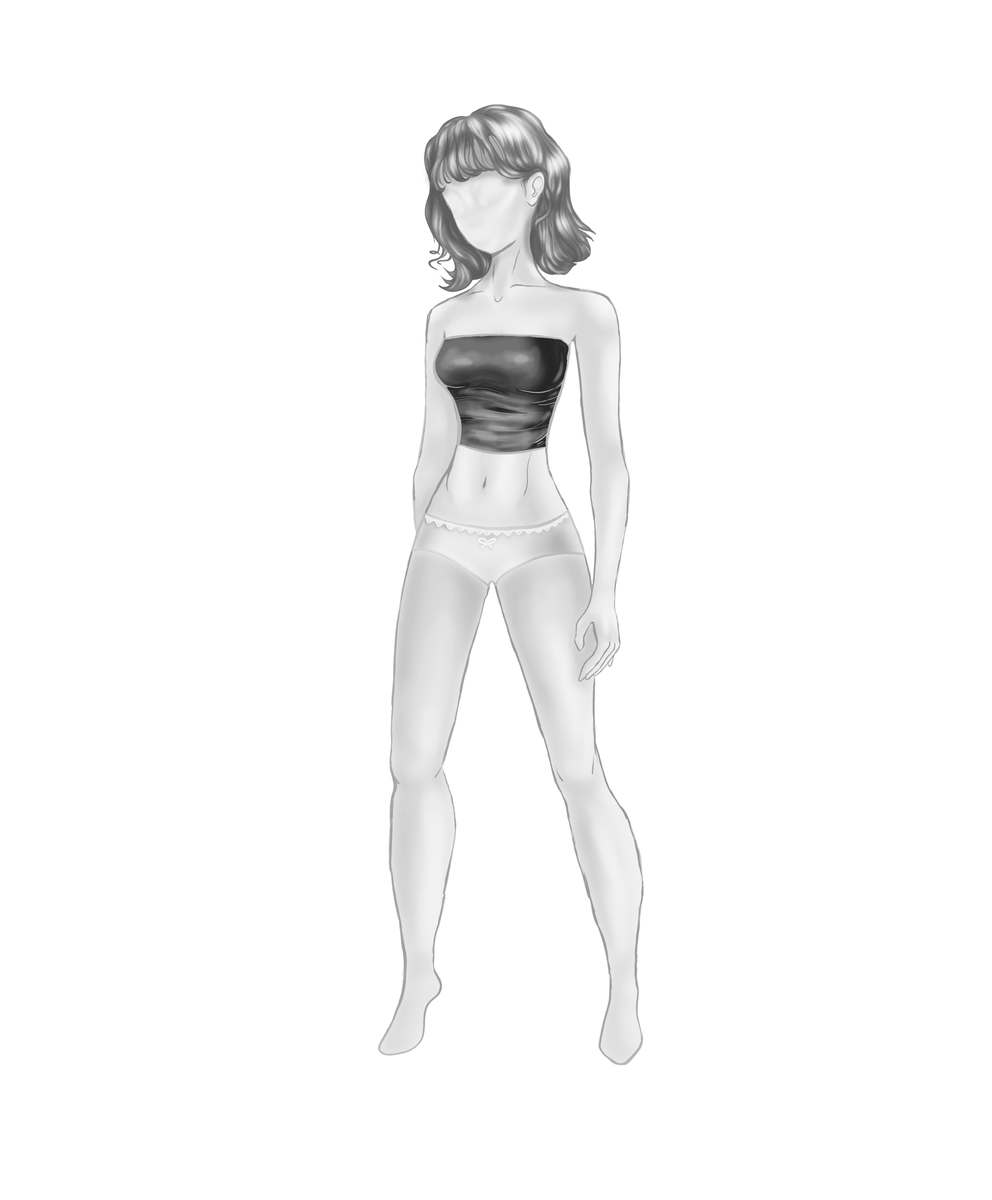
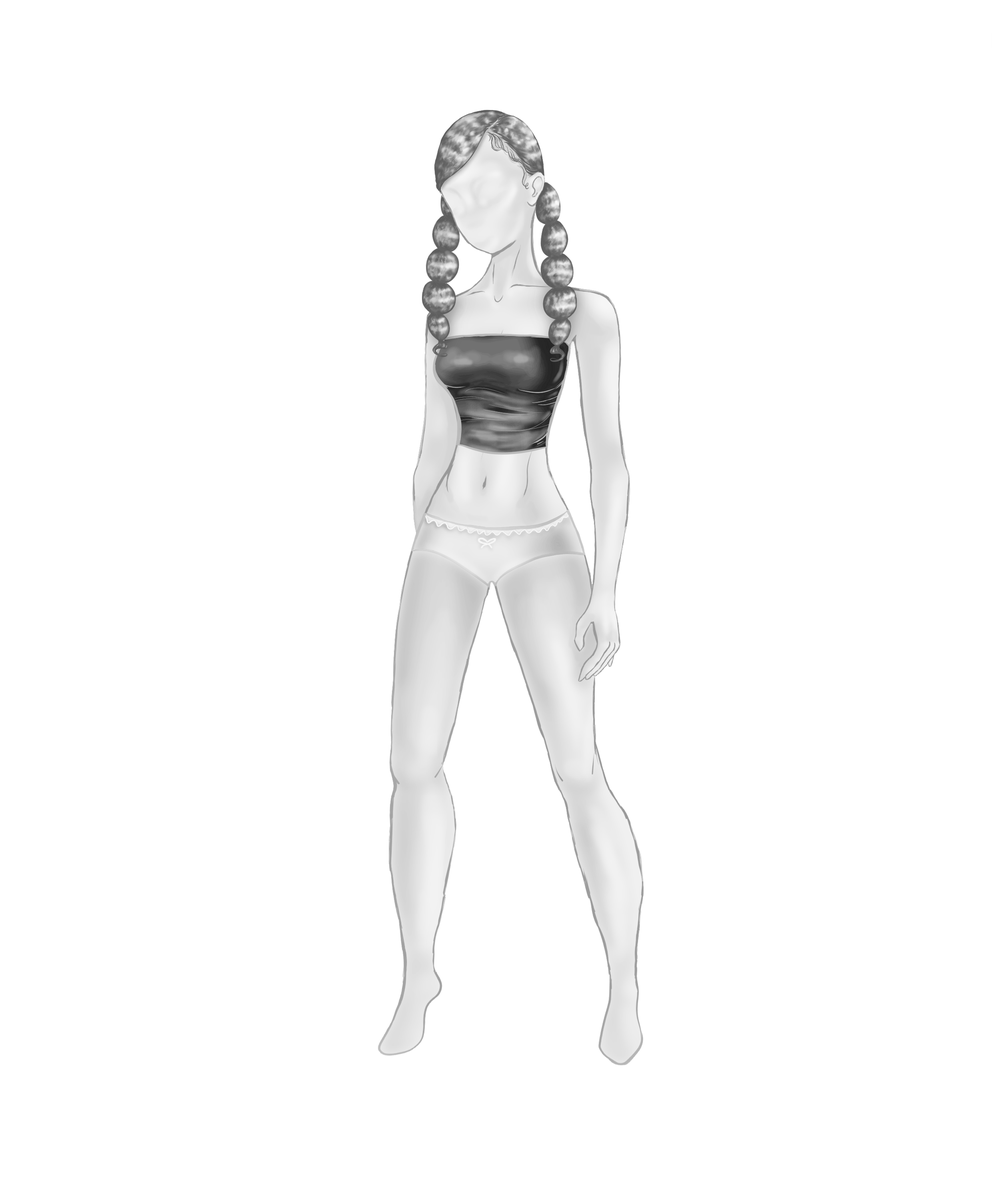
Adding new hairstyles

Changed region(s): [[0.4036, 0.062, 0.621, 0.31]]

diff --git a/dollidemo.html b/dollidemo.html
@@ -479,43 +479,8 @@
 
                 <!--EYES-->
                 <div class="eyes">
-                <div class="eyeshape" id="shape-doe">
-                    <img loading="lazy" src="DressupGame_Assets/Beauty/Eyes/darkeyes/doe_eyes_dark_brown.png" data-color="brown" style="display:block" class="darkeyes"/>
-                    <img loading="lazy" src="DressupGame_Assets/Beauty/Eyes/darkeyes/doe_eyes_dark_blue.png" data-color="blue" class="darkeyes"/>
-                    <img loading="lazy" src="DressupGame_Assets/Beauty/Eyes/darkeyes/doe_eyes_dark_purple.png" data-color="purple" class="darkeyes"/>
-                    <img loading="lazy" src="DressupGame_Assets/Beauty/Eyes/darkeyes/doe_eyes_dark_green.png"  data-color="green" class="darkeyes"/>
-                    <img loading="lazy" src="DressupGame_Assets/Beauty/Eyes/lighteyes/doe_eyes_light_blue.png"  data-color="blue" class="lighteyes"/>
-                    <img loading="lazy" src="DressupGame_Assets/Beauty/Eyes/lighteyes/doe_eyes_light_purple.png"  data-color="purple" class="lighteyes"/>
-                    <img loading="lazy" src="DressupGame_Assets/Beauty/Eyes/lighteyes/doe_eyes_light_green.png"  data-color="green" class="lighteyes"/>
-                    <img loading="lazy" src="DressupGame_Assets/Beauty/Eyes/lighteyes/doe_eyes_light_brown.png" data-color="brown" class="lighteyes"/>
-                    
-                </div>
 
-               
-
-                <div class="eyeshape" id="shape-sultry">
-                    <img loading="lazy" src="DressupGame_Assets/Beauty/Eyes/darkeyes/sultry_eyes_dark_blue.png" data-color="blue" class="darkeyes"/>
-                     <img loading="lazy" src="DressupGame_Assets/Beauty/Eyes/darkeyes/sultry_eyes_dark_purple.png" data-color="purple" class="darkeyes"/>
-                    <img loading="lazy" src="DressupGame_Assets/Beauty/Eyes/darkeyes/sultry_eyes_dark_green.png"  data-color="green" class="darkeyes"/>
-                    <img loading="lazy" src="DressupGame_Assets/Beauty/Eyes/darkeyes/sultry_eyes_dark_brown.png"  data-color="brown" class="darkeyes"/>
-                    <img loading="lazy" src="DressupGame_Assets/Beauty/Eyes/lighteyes/sultry_eyes_light_blue.png"  data-color="blue" class="lighteyes"/>
-                    <img loading="lazy" src="DressupGame_Assets/Beauty/Eyes/lighteyes/sultry_eyes_light_purple.png"  data-color="purple" class="lighteyes"/>
-                    <img loading="lazy" src="DressupGame_Assets/Beauty/Eyes/lighteyes/sultry_eyes_light_green.png"  data-color="green" class="lighteyes"/>
-                    <img loading="lazy" src="DressupGame_Assets/Beauty/Eyes/lighteyes/sultry_eyes_light_brown.png"  data-color="brown" class="lighteyes"/>
-                </div>
-                    
-
-
-               <div class="eyeshape" id="shape-cat">
-                    <img loading="lazy" src="DressupGame_Assets/Beauty/Eyes/darkeyes/cat_eyes_dark_blue.png" data-color="blue" class="darkeyes"/>
-                    <img loading="lazy" src="DressupGame_Assets/Beauty/Eyes/darkeyes/cat_eyes_dark_purple.png" data-color="purple" class="darkeyes"/>
-                    <img loading="lazy" src="DressupGame_Assets/Beauty/Eyes/darkeyes/cat_eyes_dark_green.png"  data-color="green" class="darkeyes"/>
-                    <img loading="lazy" src="DressupGame_Assets/Beauty/Eyes/darkeyes/cat_eyes_dark_brown.png"  data-color="brown" class="darkeyes"/>
-                    <img loading="lazy" src="DressupGame_Assets/Beauty/Eyes/lighteyes/cat_eyes_light_blue.png"  data-color="blue" class="lighteyes"/>
-                    <img loading="lazy" src="DressupGame_Assets/Beauty/Eyes/lighteyes/cat_eyes_light_purple.png"  data-color="purple" class="lighteyes"/>
-                    <img loading="lazy" src="DressupGame_Assets/Beauty/Eyes/lighteyes/cat_eyes_light_green.png"  data-color="green" class="lighteyes"/>
-                    <img loading="lazy" src="DressupGame_Assets/Beauty/Eyes/lighteyes/cat_eyes_light_brown.png"  data-color="brown" class="lighteyes"/>
-                </div>
+     
 
                 <div class="eyeshape" id="shape-cool">
                     <img loading="lazy" src="DressupGame_Assets/Beauty/Eyes/darkeyes/cool_eyes_dark_blue.png" data-color="blue" class="darkeyes"/>
@@ -572,28 +537,28 @@
                     <img loading="lazy" src="DressupGame_Assets/Beauty/Eyes/lighteyes/brat_eyes_light_brown.png"  data-color="brown" class="lighteyes"/>
                 </div>
 
-                <!--<div class="eyeshape" id="shape-innocent">
-                    <img loading="lazy" src="DressupGame_Assets/Beauty/Eyes/darkeyes/innocent_eyes_dark_blue.png" data-color="blue" class="darkeyes"/>
-                    <img loading="lazy" src="DressupGame_Assets/Beauty/Eyes/darkeyes/innocent_eyes_dark_purple.png" data-color="purple" class="darkeyes"/>
-                    <img loading="lazy" src="DressupGame_Assets/Beauty/Eyes/darkeyes/innocent_eyes_dark_green.png"  data-color="green" class="darkeyes"/>
-                    <img loading="lazy" src="DressupGame_Assets/Beauty/Eyes/darkeyes/innocent_eyes_dark_brown.png"  data-color="brown" class="darkeyes"/>
-                    <img loading="lazy" src="DressupGame_Assets/Beauty/Eyes/lighteyes/innocent_eyes_light_blue.png"  data-color="blue" class="lighteyes"/>
-                    <img loading="lazy" src="DressupGame_Assets/Beauty/Eyes/lighteyes/innocent_eyes_light_purple.png"  data-color="purple" class="lighteyes"/>
-                    <img loading="lazy" src="DressupGame_Assets/Beauty/Eyes/lighteyes/innocent_eyes_light_green.png"  data-color="green" class="lighteyes"/>
-                    <img loading="lazy" src="DressupGame_Assets/Beauty/Eyes/lighteyes/innocent_eyes_light_brown.png"  data-color="brown" class="lighteyes"/>
+                <div class="eyeshape" id="shape-happy">
+                    <img loading="lazy" src="DressupGame_Assets/Beauty/Eyes/darkeyes/happy_eyes_dark_blue.png" data-color="blue" class="darkeyes"/>
+                    <img loading="lazy" src="DressupGame_Assets/Beauty/Eyes/darkeyes/happy_eyes_dark_purple.png" data-color="purple" class="darkeyes"/>
+                    <img loading="lazy" src="DressupGame_Assets/Beauty/Eyes/darkeyes/happy_eyes_dark_green.png"  data-color="green" class="darkeyes"/>
+                    <img loading="lazy" src="DressupGame_Assets/Beauty/Eyes/darkeyes/happy_eyes_dark_brown.png"  data-color="brown" class="darkeyes"/>
+                    <img loading="lazy" src="DressupGame_Assets/Beauty/Eyes/lighteyes/happy_eyes_light_blue.png"  data-color="blue" class="lighteyes"/>
+                    <img loading="lazy" src="DressupGame_Assets/Beauty/Eyes/lighteyes/happy_eyes_light_purple.png"  data-color="purple" class="lighteyes"/>
+                    <img loading="lazy" src="DressupGame_Assets/Beauty/Eyes/lighteyes/happy_eyes_light_green.png"  data-color="green" class="lighteyes"/>
+                    <img loading="lazy" src="DressupGame_Assets/Beauty/Eyes/lighteyes/happy_eyes_light_brown.png"  data-color="brown" class="lighteyes"/>
                 </div> 
 
-                <div class="eyeshape" id="shape-almond">
-                    <img loading="lazy" src="DressupGame_Assets/Beauty/Eyes/darkeyes/almond_eyes_dark_blue.png" data-color="blue" class="darkeyes"/>
-                    <img loading="lazy" src="DressupGame_Assets/Beauty/Eyes/darkeyes/almond_eyes_dark_purple.png" data-color="purple" class="darkeyes"/>
-                    <img loading="lazy" src="DressupGame_Assets/Beauty/Eyes/darkeyes/almond_eyes_dark_green.png"  data-color="green" class="darkeyes"/>
-                    <img loading="lazy" src="DressupGame_Assets/Beauty/Eyes/darkeyes/almond_eyes_dark_brown.png"  data-color="brown" class="darkeyes"/>
-                    <img loading="lazy" src="DressupGame_Assets/Beauty/Eyes/lighteyes/almond_eyes_light_blue.png"  data-color="blue" class="lighteyes"/>
-                    <img loading="lazy" src="DressupGame_Assets/Beauty/Eyes/lighteyes/almond_eyes_light_purple.png"  data-color="purple" class="lighteyes"/>
-                    <img loading="lazy" src="DressupGame_Assets/Beauty/Eyes/lighteyes/almond_eyes_light_green.png"  data-color="green" class="lighteyes"/>
-                    <img loading="lazy" src="DressupGame_Assets/Beauty/Eyes/lighteyes/almond_eyes_light_brown.png"  data-color="brown" class="lighteyes"/>
+                <div class="eyeshape" id="shape-nice">
+                    <img loading="lazy" src="DressupGame_Assets/Beauty/Eyes/darkeyes/nice_eyes_dark_blue.png" data-color="blue" class="darkeyes"/>
+                    <img loading="lazy" src="DressupGame_Assets/Beauty/Eyes/darkeyes/nice_eyes_dark_purple.png" data-color="purple" class="darkeyes"/>
+                    <img loading="lazy" src="DressupGame_Assets/Beauty/Eyes/darkeyes/nice_eyes_dark_green.png"  data-color="green" class="darkeyes"/>
+                    <img loading="lazy" src="DressupGame_Assets/Beauty/Eyes/darkeyes/nice_eyes_dark_brown.png"  data-color="brown" class="darkeyes"/>
+                    <img loading="lazy" src="DressupGame_Assets/Beauty/Eyes/lighteyes/nice_eyes_light_blue.png"  data-color="blue" class="lighteyes"/>
+                    <img loading="lazy" src="DressupGame_Assets/Beauty/Eyes/lighteyes/nice_eyes_light_purple.png"  data-color="purple" class="lighteyes"/>
+                    <img loading="lazy" src="DressupGame_Assets/Beauty/Eyes/lighteyes/nice_eyes_light_green.png"  data-color="green" class="lighteyes"/>
+                    <img loading="lazy" src="DressupGame_Assets/Beauty/Eyes/lighteyes/nice_eyes_light_brown.png"  data-color="brown" class="lighteyes"/>
                 </div>
-                -->
+                
 
                 </div>
 
@@ -726,6 +691,12 @@
                     <img loading="lazy" src="DressupGame_Assets/Beauty/Makeup/Blush/blush3_medium.png" data-color="medium" class="blushes"/>
                     <img loading="lazy" src="DressupGame_Assets/Beauty/Makeup/Blush/blush3_light.png" data-color="light"  class="blushes"/>
                     <img loading="lazy" src="DressupGame_Assets/Beauty/Makeup/Blush/blush3_rouge.png" data-color="rouge"  class="blushes"/>
+                    </div>
+                    <div class="blushshape" id="highlight">
+                    <img loading="lazy" src="DressupGame_Assets/Beauty/Makeup/Blush/highlight_dark.png" data-color="dark" class="blushes"/>
+                    <img loading="lazy" src="DressupGame_Assets/Beauty/Makeup/Blush/highlight_med.png" data-color="medium" class="blushes"/>
+                    <img loading="lazy" src="DressupGame_Assets/Beauty/Makeup/Blush/highlight_light.png" data-color="light"  class="blushes"/>
+                    <img loading="lazy" src="DressupGame_Assets/Beauty/Makeup/Blush/highlight_rouge.png" data-color="rouge"  class="blushes"/>
                     </div>
                 </div>
 
@@ -882,6 +853,57 @@
                     <img src="DressupGame_Assets/Hairs/Hairstyles/Hairstyle6/hairstyle6_orange.png" data-color="orange" class="hairstyles"/>
                     </div>
 
+                    <div class="hairshape" id="hairstyle10" >
+                    <img src="DressupGame_Assets/Hairs/Hairstyles/Hairstyle10/hairstyle10_black.png" data-color="black" class="hairstyles"/>
+                    <img src="DressupGame_Assets/Hairs/Hairstyles/Hairstyle10/hairstyle10_brown.png" data-color="brown" class="hairstyles"/>
+                    <img src="DressupGame_Assets/Hairs/Hairstyles/Hairstyle10/hairstyle10_blonde.png" data-color="blonde" class="hairstyles"/>
+                    <img src="DressupGame_Assets/Hairs/Hairstyles/Hairstyle10/hairstyle10_orange.png" data-color="orange" class="hairstyles"/>
+                    </div>
+
+                    <div class="hairshape" id="hairstyle11" >
+                    <img src="DressupGame_Assets/Hairs/Hairstyles/Hairstyle11/hairstyle11_black.png" data-color="black" class="hairstyles"/>
+                    <img src="DressupGame_Assets/Hairs/Hairstyles/Hairstyle11/hairstyle11_brown.png" data-color="brown" class="hairstyles"/>
+                    <img src="DressupGame_Assets/Hairs/Hairstyles/Hairstyle11/hairstyle11_blonde.png" data-color="blonde" class="hairstyles"/>
+                    <img src="DressupGame_Assets/Hairs/Hairstyles/Hairstyle11/hairstyle11_orange.png" data-color="orange" class="hairstyles"/>
+                    </div>
+
+                    <div class="hairshape" id="hairstyle12" >
+                    <img src="DressupGame_Assets/Hairs/Hairstyles/Hairstyle12/hairstyle12_black.png" data-color="black" class="hairstyles"/>
+                    <img src="DressupGame_Assets/Hairs/Hairstyles/Hairstyle12/hairstyle12_brown.png" data-color="brown" class="hairstyles"/>
+                    <img src="DressupGame_Assets/Hairs/Hairstyles/Hairstyle12/hairstyle12_blonde.png" data-color="blonde" class="hairstyles"/>
+                    <img src="DressupGame_Assets/Hairs/Hairstyles/Hairstyle12/hairstyle12_orange.png" data-color="orange" class="hairstyles"/>
+                    </div>
+
+                    <div class="hairshape" id="hairstyle13" >
+                    <img src="DressupGame_Assets/Hairs/Hairstyles/Hairstyle13/hairstyle13_black.png" data-color="black" class="hairstyles"/>
+                    <img src="DressupGame_Assets/Hairs/Hairstyles/Hairstyle13/hairstyle13_brown.png" data-color="brown" class="hairstyles"/>
+                    <img src="DressupGame_Assets/Hairs/Hairstyles/Hairstyle13/hairstyle13_blonde.png" data-color="blonde" class="hairstyles"/>
+                    <img src="DressupGame_Assets/Hairs/Hairstyles/Hairstyle13/hairstyle13_orange.png" data-color="orange" class="hairstyles"/>
+                    </div>
+
+                    
+                    <div class="hairshape" id="hairstyle14" >
+                    <img src="DressupGame_Assets/Hairs/Hairstyles/Hairstyle14/hairstyle14_black.png" data-color="black" class="hairstyles"/>
+                    <img src="DressupGame_Assets/Hairs/Hairstyles/Hairstyle14/hairstyle14_brown.png" data-color="brown" class="hairstyles"/>
+                    <img src="DressupGame_Assets/Hairs/Hairstyles/Hairstyle14/hairstyle14_blonde.png" data-color="blonde" class="hairstyles"/>
+                    <img src="DressupGame_Assets/Hairs/Hairstyles/Hairstyle14/hairstyle14_orange.png" data-color="orange" class="hairstyles"/>
+                    </div>
+
+    
+                    <div class="hairshape" id="hairstyle15" >
+                    <img src="DressupGame_Assets/Hairs/Hairstyles/Hairstyle15/hairstyle15_black.png" data-color="black" class="hairstyles"/>
+                    <img src="DressupGame_Assets/Hairs/Hairstyles/Hairstyle15/hairstyle15_brown.png" data-color="brown" class="hairstyles"/>
+                    <img src="DressupGame_Assets/Hairs/Hairstyles/Hairstyle15/hairstyle15_blonde.png" data-color="blonde" class="hairstyles"/>
+                    <img src="DressupGame_Assets/Hairs/Hairstyles/Hairstyle15/hairstyle15_orange.png" data-color="orange" class="hairstyles"/>
+                    </div>
+
+
+                    <div class="hairshape" id="hairstyle16" >
+                    <img src="DressupGame_Assets/Hairs/Hairstyles/Hairstyle16/hairstyle16_black.png" data-color="black" class="hairstyles"/>
+                    <img src="DressupGame_Assets/Hairs/Hairstyles/Hairstyle16/hairstyle16_brown.png" data-color="brown" class="hairstyles"/>
+                    <img src="DressupGame_Assets/Hairs/Hairstyles/Hairstyle16/hairstyle16_blonde.png" data-color="blonde" class="hairstyles"/>
+                    <img src="DressupGame_Assets/Hairs/Hairstyles/Hairstyle16/hairstyle16_orange.png" data-color="orange" class="hairstyles"/>
+                    </div>
                 </div>
           
                 <!--JEWELRY-->
@@ -1034,20 +1056,6 @@
                     <img loading="lazy" src="DressupGame_Assets/Clothes/Under/Tank2/tank2_black.png" data-color="black" class="tops"/>
                     </div>
 
-
-                   <div class="topstyle" id="beyonce">
-                    <img loading="lazy" src="DressupGame_Assets/Clothes/Tops/Beyonce/beyonce_pink.png" data-color="pink" class="tops"/>
-                    <img loading="lazy" src="DressupGame_Assets/Clothes/Tops/Beyonce/beyonce_red.png" data-color="red" class="tops"/>
-                    <img loading="lazy" src="DressupGame_Assets/Clothes/Tops/Beyonce/beyonce_yellow.png" data-color="yellow" class="tops"/>
-                    <img loading="lazy" src="DressupGame_Assets/Clothes/Tops/Beyonce/beyonce_green.png" data-color="green" class="tops"/>
-                    <img loading="lazy" src="DressupGame_Assets/Clothes/Tops/Beyonce/beyonce_blue.png" data-color="blue" class="tops"/>                    
-                    <img loading="lazy" src="DressupGame_Assets/Clothes/Tops/Beyonce/beyonce_purple.png" data-color="purple" class="tops"/>
-                    <img loading="lazy" src="DressupGame_Assets/Clothes/Tops/Beyonce/beyonce_magenta.png" data-color="magenta" class="tops"/>
-                    <img loading="lazy" src="DressupGame_Assets/Clothes/Tops/Beyonce/beyonce_brown.png" data-color="brown" class="tops"/>
-                    <img loading="lazy" src="DressupGame_Assets/Clothes/Tops/Beyonce/beyonce_white.png" data-color="white" class="tops"/>
-                    <img loading="lazy" src="DressupGame_Assets/Clothes/Tops/Beyonce/beyonce_black.png" data-color="black" class="tops"/>
-                    </div>
-
                     <div class="topstyle" id="leopard">
                     <img loading="lazy" src="DressupGame_Assets/Clothes/Dress/leopard_dress.png"  class="tops"/>
                     </div>
@@ -1065,6 +1073,18 @@
                     <img loading="lazy" src="DressupGame_Assets/Clothes/Tops/FishnetSleeves/fishnet_sleeves_black.png" data-color="black" class="tops"/>
                     </div>
 
+                   <div class="topstyle" id="beyonce">
+                    <img loading="lazy" src="DressupGame_Assets/Clothes/Tops/Beyonce/beyonce_pink.png" data-color="pink" class="tops"/>
+                    <img loading="lazy" src="DressupGame_Assets/Clothes/Tops/Beyonce/beyonce_red.png" data-color="red" class="tops"/>
+                    <img loading="lazy" src="DressupGame_Assets/Clothes/Tops/Beyonce/beyonce_yellow.png" data-color="yellow" class="tops"/>
+                    <img loading="lazy" src="DressupGame_Assets/Clothes/Tops/Beyonce/beyonce_green.png" data-color="green" class="tops"/>
+                    <img loading="lazy" src="DressupGame_Assets/Clothes/Tops/Beyonce/beyonce_blue.png" data-color="blue" class="tops"/>                    
+                    <img loading="lazy" src="DressupGame_Assets/Clothes/Tops/Beyonce/beyonce_purple.png" data-color="purple" class="tops"/>
+                    <img loading="lazy" src="DressupGame_Assets/Clothes/Tops/Beyonce/beyonce_magenta.png" data-color="magenta" class="tops"/>
+                    <img loading="lazy" src="DressupGame_Assets/Clothes/Tops/Beyonce/beyonce_brown.png" data-color="brown" class="tops"/>
+                    <img loading="lazy" src="DressupGame_Assets/Clothes/Tops/Beyonce/beyonce_white.png" data-color="white" class="tops"/>
+                    <img loading="lazy" src="DressupGame_Assets/Clothes/Tops/Beyonce/beyonce_black.png" data-color="black" class="tops"/>
+                    </div>
                     <div class="topstyle" id="janet">
                     <img loading="lazy" src="DressupGame_Assets/Clothes/Tops/Janet/janet_pink.png" data-color="pink" class="tops"/>
                     <img loading="lazy" src="DressupGame_Assets/Clothes/Tops/Janet/janet_red.png" data-color="red" class="tops"/>
@@ -1276,15 +1296,13 @@
             <div class="padding">
             <p class="optiontitle">Eyes</p>
             <div class="optioncontainer">
-                    <div onclick="changeEyeShape('shape-doe', this)" data-category="eyes" loading="lazy" class="beautyoptionseyes"  style="background-image:url(DressupGame_Assets/Beauty/Eyes/Eyesthumbnail/doe_eyes.png)"></div>
+                    <div onclick="changeEyeShape('shape-nice', this)" data-category="eyes" loading="lazy" class="beautyoptionseyes"  style="background-image:url(DressupGame_Assets/Beauty/Eyes/Eyesthumbnail/nice_eyes.png)"></div> 
                     <div onclick="changeEyeShape('shape-brat', this)" data-category="eyes" loading="lazy" class="beautyoptionseyes"  style="background-image:url(DressupGame_Assets/Beauty/Eyes/Eyesthumbnail/brat_eyes.png)"></div>
                     <div onclick="changeEyeShape('shape-cool', this)" data-category="eyes" loading="lazy" class="beautyoptionseyes"  style="background-image:url(DressupGame_Assets/Beauty/Eyes/Eyesthumbnail/cool_eyes.png)"></div>
                     <div onclick="changeEyeShape('shape-droop', this)" data-category="eyes" loading="lazy" class="beautyoptionseyes"  style="background-image:url(DressupGame_Assets/Beauty/Eyes/Eyesthumbnail/droop_eyes.png)"></div>
                     <div onclick="changeEyeShape('shape-joy', this)" data-category="eyes" loading="lazy" class="beautyoptionseyes"  style="background-image:url(DressupGame_Assets/Beauty/Eyes/Eyesthumbnail/joy_eyes.png)"></div>
-                    <div onclick="changeEyeShape('shape-sultry', this)" data-category="eyes" loading="lazy" class="beautyoptionseyes"  style="background-image:url(DressupGame_Assets/Beauty/Eyes/Eyesthumbnail/sultry_eyes.png)"></div>
-                    <div onclick="changeEyeShape('shape-cat', this)" data-category="eyes" loading="lazy" class="beautyoptionseyes"  style="background-image:url(DressupGame_Assets/Beauty/Eyes/Eyesthumbnail/cat_eyes.png)"></div> <!--<div onclick="changeEyeShape('shape-innocent', this)" data-category="eyes" loading="lazy" class="beautyoptionseyes"  style="background-image:url(DressupGame_Assets/Beauty/Eyes/Eyesthumbnail/innocent_eyes.png)"></div>
-                    <div onclick="changeEyeShape('shape-almond', this)" data-category="eyes" loading="lazy" class="beautyoptionseyes"  style="background-image:url(DressupGame_Assets/Beauty/Eyes/Eyesthumbnail/almond_eyes.png)"></div>
-                    -->
+                    <div onclick="changeEyeShape('shape-happy', this)" data-category="eyes" loading="lazy" class="beautyoptionseyes"  style="background-image:url(DressupGame_Assets/Beauty/Eyes/Eyesthumbnail/happy_eyes.png)"></div>
+
             </div>
             </div>
         </div>
@@ -1345,19 +1363,26 @@
              <div class="padding">
              <p class="optiontitle">Hairstyles</p>   
             <div class="optioncontainer">
-                    <div onclick="changeHairShape('hairstyle0', this)" data-category="hairs" loading="lazy" class="beautyoptionshair" style="background-image:url(DressupGame_Assets/Hairs/Hairthumbnails/hair0.png)"></div>
+                    <div onclick="changeHairShape('hairstyle16', this)" data-category="hairs" loading="lazy" class="beautyoptionshair" style="background-image:url(DressupGame_Assets/Hairs/Hairthumbnails/hair16.png)"></div>
                     <div onclick="changeHairShape('hairstyle7', this)" data-category="hairs" loading="lazy" class="beautyoptionshair" style="background-image:url(DressupGame_Assets/Hairs/Hairthumbnails/hair7.png)"></div>
                     <div onclick="changeHairShape('hairstyle8', this)" data-category="hairs" loading="lazy" class="beautyoptionshair" style="background-image:url(DressupGame_Assets/Hairs/Hairthumbnails/hair8.png)"></div>
                     <div onclick="changeHairShape('hairstyle9', this)" data-category="hairs" loading="lazy" class="beautyoptionshair" style="background-image:url(DressupGame_Assets/Hairs/Hairthumbnails/hair9.png)"></div>
                     <div onclick="changeHairShape('hairstyle9.1', this)" data-category="hairs" loading="lazy" class="beautyoptionshair" style="background-image:url(DressupGame_Assets/Hairs/Hairthumbnails/hair9.1.png)"></div>
+                    <div onclick="changeHairShape('hairstyle10', this)" data-category="hairs" loading="lazy" class="beautyoptionshair" style="background-image:url(DressupGame_Assets/Hairs/Hairthumbnails/hair10.png)"></div>
+                    <div onclick="changeHairShape('hairstyle11', this)" data-category="hairs" loading="lazy" class="beautyoptionshair" style="background-image:url(DressupGame_Assets/Hairs/Hairthumbnails/hair11.png)"></div>
+                    <div onclick="changeHairShape('hairstyle12', this)" data-category="hairs" loading="lazy" class="beautyoptionshair" style="background-image:url(DressupGame_Assets/Hairs/Hairthumbnails/hair12.png)"></div>
+                    <div onclick="changeHairShape('hairstyle13', this)" data-category="hairs" loading="lazy" class="beautyoptionshair" style="background-image:url(DressupGame_Assets/Hairs/Hairthumbnails/hair13.png)"></div>
+                    <div onclick="changeHairShape('hairstyle14', this)" data-category="hairs" loading="lazy" class="beautyoptionshair" style="background-image:url(DressupGame_Assets/Hairs/Hairthumbnails/hair14.png)"></div>
+                    <div onclick="changeHairShape('hairstyle15', this)" data-category="hairs" loading="lazy" class="beautyoptionshair" style="background-image:url(DressupGame_Assets/Hairs/Hairthumbnails/hair15.png)"></div>
                     <div onclick="changeHairShape('hairstyle2', this)" data-category="hairs" loading="lazy" class="beautyoptionshair" style="background-image:url(DressupGame_Assets/Hairs/Hairthumbnails/hair2.png)"></div>
                     <div onclick="changeHairShape('hairstyle2.1', this)" data-category="hairs" loading="lazy" class="beautyoptionshair" style="background-image:url(DressupGame_Assets/Hairs/Hairthumbnails/hair2.1.png)"></div>
                     <div onclick="changeHairShape('hairstyle1', this)" data-category="hairs" loading="lazy" class="beautyoptionshair" style="background-image:url(DressupGame_Assets/Hairs/Hairthumbnails/hair1.png)"></div>
-                    <div onclick="changeHairShape('hairstyle4', this)" data-category="hairs" loading="lazy" class="beautyoptionshair" style="background-image:url(DressupGame_Assets/Hairs/Hairthumbnails/hair3.png)"></div>
-                    <div onclick="changeHairShape('hairstyle3', this)" data-category="hairs" loading="lazy" class="beautyoptionshair" style="background-image:url(DressupGame_Assets/Hairs/Hairthumbnails/hair4.png)"></div>
                     <div onclick="changeHairShape('hairstyle5', this)" data-category="hairs" loading="lazy" class="beautyoptionshair" style="background-image:url(DressupGame_Assets/Hairs/Hairthumbnails/hair5.png)"></div>
                     <div onclick="changeHairShape('hairstyle6', this)" data-category="hairs" loading="lazy" class="beautyoptionshair" style="background-image:url(DressupGame_Assets/Hairs/Hairthumbnails/hair6.png)"></div>
-                    
+                    <div onclick="changeHairShape('hairstyle4', this)" data-category="hairs" loading="lazy" class="beautyoptionshair" style="background-image:url(DressupGame_Assets/Hairs/Hairthumbnails/hair4.png)"></div>
+                    <div onclick="changeHairShape('hairstyle3', this)" data-category="hairs" loading="lazy" class="beautyoptionshair" style="background-image:url(DressupGame_Assets/Hairs/Hairthumbnails/hair3.png)"></div>s
+                    <div onclick="changeHairShape('hairstyle0', this)" data-category="hairs" loading="lazy" class="beautyoptionshair" style="background-image:url(DressupGame_Assets/Hairs/Hairthumbnails/hair0.png)"></div>
+
             </div>
             </div>
         </div>
@@ -1370,9 +1395,8 @@
                     <div onclick="changeBlushShape('blush1', this)" data-category="blush" loading="lazy" class="beautyoptionsmakeup" style="background-image:url(DressupGame_Assets/Beauty/Makeup/Makeup_Thumbnails/blush1.png)"></div>
                     <div onclick="changeBlushShape('blush2', this)" data-category="blush" loading="lazy" class="beautyoptionsmakeup" style="background-image:url(DressupGame_Assets/Beauty/Makeup/Makeup_Thumbnails/blush2.png)"></div>
                     <div onclick="changeBlushShape('blush3', this)" data-category="blush" loading="lazy" class="beautyoptionsmakeup" style="background-image:url(DressupGame_Assets/Beauty/Makeup/Makeup_Thumbnails/blush3.png)"></div>
-                    <div loading="lazy" class="beautyoptionsmakeup" ></div>
-                    <div loading="lazy" class="beautyoptionsmakeup" ></div>
-                    <div loading="lazy" class="beautyoptionsmakeup" ></div>
+                    <div onclick="changeBlushShape('highlight', this)" data-category="blush" loading="lazy" class="beautyoptionsmakeup" style="background-image:url(DressupGame_Assets/Beauty/Makeup/Makeup_Thumbnails/highlighter.png)"></div>
+
             </div>
             </div>
         </div>

diff --git a/dolliscript.js b/dolliscript.js
@@ -1,13 +1,13 @@
 let currentEyeColor = "brown";
 let currentHairColor = "black";
 let currentBrowColor = "black";
-let currentLipColor = "brown";
+let currentLipColor = "pink";
 let currentBlushColor = "dark";
-let currentHairId = "hairstyle0";
+let currentHairId = "hairstyle16";
 let currentBrowId = "browshape1";
 let currentNoseId = "noseshape2";
 let currentLipId = "lipshape1";
-let currentEyeId = "shape-doe";
+let currentEyeId = "shape-nice";
 let currentBlushId = "blush1";
 let activeTopIds = new Set(["bandeau"]);
 let currentTopId = "bandeau";
@@ -325,7 +325,7 @@ function skinSlides(n) {
 function updateEyesForSkin(slideIndex) {
   const isDark = darkSkinIndices.includes(slideIndex);
   const activeShape = document.querySelector(".eyeshape[style*='display:block'], .eyeshape[style*='display: block']")
-                   || document.getElementById("shape-doe");
+                   || document.getElementById("shape-nice");
   if (!activeShape) return;
 
   activeShape.querySelectorAll(".darkeyes").forEach(img => img.style.display = "none");
@@ -362,7 +362,7 @@ function changeEyeColor(color, el) {
   document.querySelectorAll('.coloroption[data-category="eyes"]').forEach(dot => dot.classList.remove("outline"));
   el.classList.add("outline");
   const activeShape = document.querySelector(".eyeshape[style*='display:block'], .eyeshape[style*='display: block']")
-                   || document.getElementById("shape-doe");
+                   || document.getElementById("shape-nice");
   if (!activeShape) return;
   const isDark = darkSkinIndices.includes(slideIndex);
   activeShape.querySelectorAll(".darkeyes, .lighteyes").forEach(img => {

diff --git a/dollistylesheet.css b/dollistylesheet.css
@@ -737,7 +737,7 @@ body{
     text-align:center;
     font-size:14px;
     align-content: center;
-    z-index:3;
+    z-index:6;
     transition:ease-out .3s;
     cursor: pointer;
     cursor: pointer;
@@ -911,16 +911,16 @@ img.tops{
 }
 img.hairstyles{
     margin-top: -0.3px;
-    z-index: 3;
+    z-index: 1;
 }
 
 img.jewelrystyle.necklace{
-    z-index: 2;
+    z-index: 0;
     pointer-events: none;
 }
 
 img.jewelrystyle.earring{
-    z-index: 5;
+    z-index: 1;
     pointer-events: none;
 }
 
